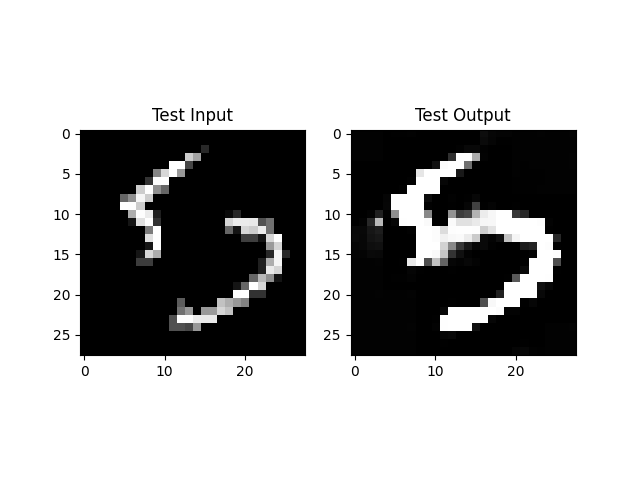
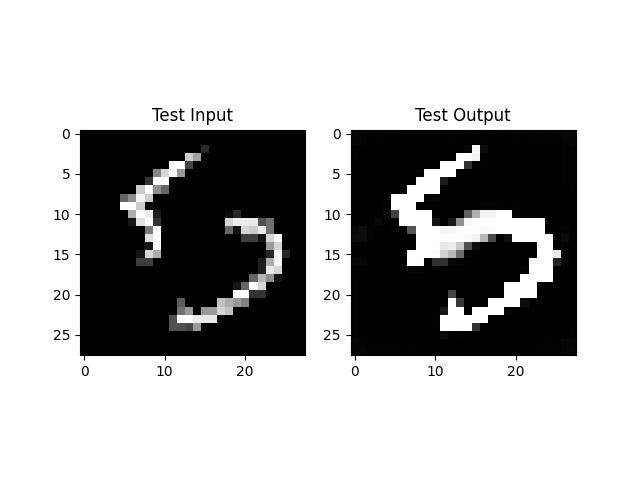
added skip connections

diff --git a/src/initial.py b/src/initial.py
@@ -36,7 +36,6 @@ https://pytorch.org/tutorials/recipes/recipes/tensorboard_with_pytorch.html
 
 # It is important that your model and all data are on the same device.
 device = torch.device("cuda:0" if torch.cuda.is_available() else "mps")
-#device = torch.device("cuda:0" if torch.cuda.is_available() else "cpu")
 
 
 def get_data(**kwargs):
@@ -75,10 +74,6 @@ def get_data(**kwargs):
     train_data_label = train_data.clone()
     
     return train_data_input, train_data_label, test_data_input
-
-
-
-
 def train_model(train_data_input, train_data_label, **kwargs):
     # Set up device
     device = torch.device('cuda' if torch.cuda.is_available() else 'mps')
@@ -90,7 +85,7 @@ def train_model(train_data_input, train_data_label, **kwargs):
     train_dataset, val_dataset = random_split(dataset, [train_size, val_size])
     
     # Create data loaders
-    batch_size = 10
+    batch_size = 8
     train_loader = DataLoader(train_dataset, batch_size=batch_size, shuffle=True)
     val_loader = DataLoader(val_dataset, batch_size=batch_size, shuffle=False)
     
@@ -109,7 +104,7 @@ def train_model(train_data_input, train_data_label, **kwargs):
     scheduler = optim.lr_scheduler.ReduceLROnPlateau(optimizer, 
                                                     mode='min', 
                                                     factor=0.1,
-                                                    patience=5,
+                                                    patience=2,
                                                     verbose=True)
     
     # Training loop
@@ -163,90 +158,35 @@ def train_model(train_data_input, train_data_label, **kwargs):
     return model
 
 
-class SpatialAttention(nn.Module):
-    def __init__(self, kernel_size=7):
-        super(SpatialAttention, self).__init__()
-
-        self.conv1 = nn.Conv2d(2, 1, kernel_size, padding=kernel_size // 2, bias=False)
-        self.sigmoid = nn.Sigmoid()
-
-    def forward(self, x):
-        avg_out = torch.mean(x, dim=1, keepdim=True)
-        max_out, _ = torch.max(x, dim=1, keepdim=True)
-        x = torch.cat([avg_out, max_out], dim=1)
-        x = self.conv1(x)
-        return self.sigmoid(x)
-    
-
-class ChannelAttention(nn.Module):
-    def __init__(self, in_planes, ratio=16):
-        super(ChannelAttention, self).__init__()
-        self.avg_pool = nn.AdaptiveAvgPool2d(1)
-        self.max_pool = nn.AdaptiveMaxPool2d(1)
-
-        self.fc1 = nn.Conv2d(in_planes, in_planes // ratio, 1, bias=False)
-        self.relu1 = nn.ReLU()
-        self.fc2 = nn.Conv2d(in_planes // ratio, in_planes, 1, bias=False)
-
-        self.sigmoid = nn.Sigmoid()
-
-    def forward(self, x):
-        avg_out = self.fc2(self.relu1(self.fc1(self.avg_pool(x))))
-        max_out = self.fc2(self.relu1(self.fc1(self.max_pool(x))))
-        out = avg_out + max_out
-        return self.sigmoid(out)
-
 class Model(nn.Module):
     def __init__(self):
         super(Model, self).__init__()
         
         # Encoder
-        self.conv1 = nn.Sequential(
+        self.encoder = nn.Sequential(
             nn.Conv2d(1, 32, kernel_size=3, padding=1),
             nn.ReLU(),
-            nn.MaxPool2d(kernel_size=2, stride=2)
-        )
-        
-        self.conv2 = nn.Sequential(
+            nn.MaxPool2d(kernel_size=2, stride=2),
+            
             nn.Conv2d(32, 64, kernel_size=3, padding=1),
             nn.ReLU(),
             nn.MaxPool2d(kernel_size=2, stride=2)
         )
         
         # Decoder
-        self.decoder_up1 = nn.Sequential(
+        self.decoder = nn.Sequential(
             nn.ConvTranspose2d(64, 32, kernel_size=2, stride=2),
-            nn.ReLU()
-        )
-        
-        # Fusion convolution to combine skip connection and decoder features
-        self.fusion_conv = nn.Conv2d(32 + 32, 32, kernel_size=3, padding=1)
-        self.fusion_relu = nn.ReLU()
-        
-        self.decoder_up2 = nn.Sequential(
+            nn.ReLU(),
+            
             nn.ConvTranspose2d(32, 1, kernel_size=2, stride=2),
             nn.Sigmoid()
         )
 
     def forward(self, x):
-        # Encoder
-        f1 = self.conv1(x)  # Shape: [N, 32, 14, 14] (skip connection feature)
-        f2 = self.conv2(f1)  # Shape: [N, 64, 7, 7] (bottleneck)
-        
-        # Decoder
-        d1 = self.decoder_up1(f2)  # Shape: [N, 32, 14, 14]
-        
-        # Concatenate skip connection (f1) with decoder features (d1)
-        d1 = torch.cat([f1, d1], dim=1)  # Shape: [N, 32+32, 14, 14]
-        
-        # Fuse concatenated features
-        d1 = self.fusion_conv(d1)  # Shape: [N, 32, 14, 14]
-        d1 = self.fusion_relu(d1)
-        
-        # Final upsampling
-        x = self.decoder_up2(d1)  # Shape: [N, 1, 28, 28]
-        
+        x = self.encoder(x)
+        x = self.decoder(x)
         return x
+
 # Example usage:
 # model = Model()
 # optimizer = optim.Adam(model.parameters(), lr=0.1)
@@ -349,4 +289,3 @@ def main():
 
 if __name__ == "__main__":
     main()
-
